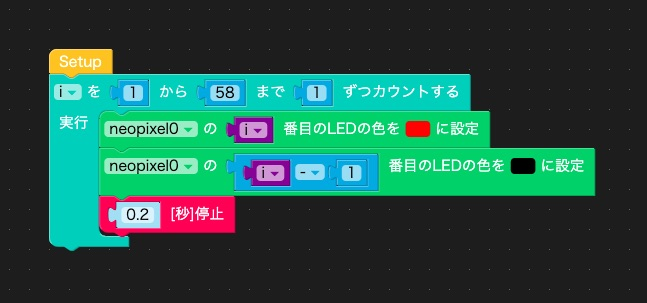
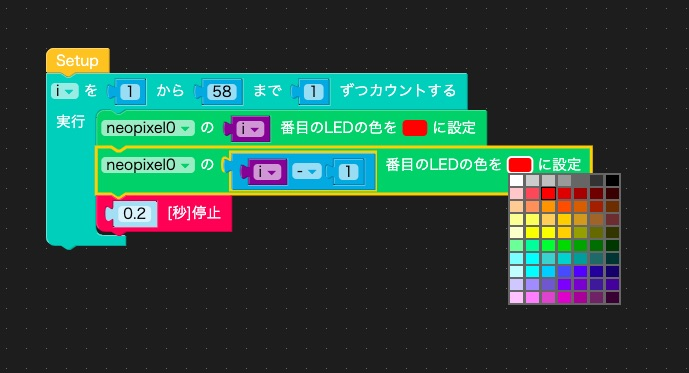
2nd

diff --git a/m5cafe/2_XmasIllumination/index.html b/m5cafe/2_XmasIllumination/index.html
@@ -138,14 +138,16 @@
                 <p><img src="./images/setithled.jpg" class="img-responsive center-block"  alt="i番目のLEDを点ける"></p>
                 <p>実行ボタンを押して、様子を見てみましょう。</p>
                 <p>想像した通りになったでしょうか？数字を手で変えてLEDを点けたときは、その数字のLEDだけが点灯しましたが、今度はM5StickCに近いところから1つ、2つと赤く光るLEDが増えていき、最後は全部のLEDが点灯しました。LEDテープは「1番目を赤く光らせる」と設定すると、「消せ」という設定をしない限りずっとその色で光り続けるのですね。数字を手で変えてLEDを点けたときは、「Setup」ブロックの中で最初に全てのLEDを消してくれていたので、指定したLEDだけが光っていました。</p>
-                <p>では、順番に1つだけのLEDが光るようにプログラムを修正してみましょう。そのためには、「i番目のLEDを赤く」したあとに、一つ手前の「i - 1番目のLEDを黒く」設定します。「i - 1」番目は、「数学」メニューの「□ ＋ □」ブロックを使い、最初の□に「i」を入れ、「＋」を「−」に変え、次の□に「1」を入れます。プログラムは次のようになります。</p>
+                <p>では、順番に1つだけのLEDが光るようにプログラムを修正してみましょう。そのためには、「i番目のLEDを赤く」したあとに、一つ手前の「i - 1番目のLEDを黒く」設定します。
+                    LEDの色の部分をクリックするとカラーパレットが現れるので、設定したい色を選択します。
+                    「i - 1」番目は、「数学」メニューの「□ ＋ □」ブロックを使い、最初の□に「i」を入れ、「＋」を「−」に変え、次の□に「1」を入れます。プログラムは次のようになります。</p>
                 <p><img src="./images/setonlyithled.jpg" class="img-responsive center-block"  alt="i番目のLEDだけを点ける"></p>
                 <p>実行してみると、順番に1つだけのLEDが光るのが確認できます。</p>
 
                 <h2 id="クリスマス・イルミネーションを作る">クリスマス・イルミネーションを作る</h2>
                 <p>LEDテープの使い方が分かってきたので、いよいよクリスマス・イルミネーションを作ってみましょう。LEDを赤と緑に交互に点灯させると、それらしくなるはずです。</p>
                 <p>まず、1番目、3番目、5番目、つまり奇数番目のLEDを赤に、偶数番目のLEDを緑にしてみます。</p>
-                <p>先程のプログラムを参考に、「iを1から58まで2ずつカウントする」というループを作ります。するとiは1、3、5…と変化していきます。「i番目のLEDを赤く設定」し、「i + 1番目のLEDを緑に設定」します。色は「neopixel0の 1 番目のLEDの色を□に設定」の色の部分をクリックすると、カラーパレットが現れるので、設定したい色を選択します。</p>
+                <p>先程のプログラムを参考に、「iを1から58まで2ずつカウントする」というループを作ります。するとiは1、3、5…と変化していきます。「i番目のLEDを赤く設定」し、「i + 1番目のLEDを緑に設定」します。</p>
                 <p><img src="./images/setredgreenleds.jpg" width="100%" class="img-responsive center-block"  alt="赤と緑のLEDを点ける"></p>
                 <p>実行すると、奇数番目のLEDが赤、偶数番目のLEDが緑になります。これだけだと変化がないので面白くありません。赤と緑が交互に入れ替わるようにしてみましょう。</p>
                 <p>奇数番目のLEDを赤、偶数番目を緑にしたら、0.5秒待つように、「タイマー」メニューから「1[秒]停止」ブロックを選び、ループの下に付け、数字を0.5にします。</p>
